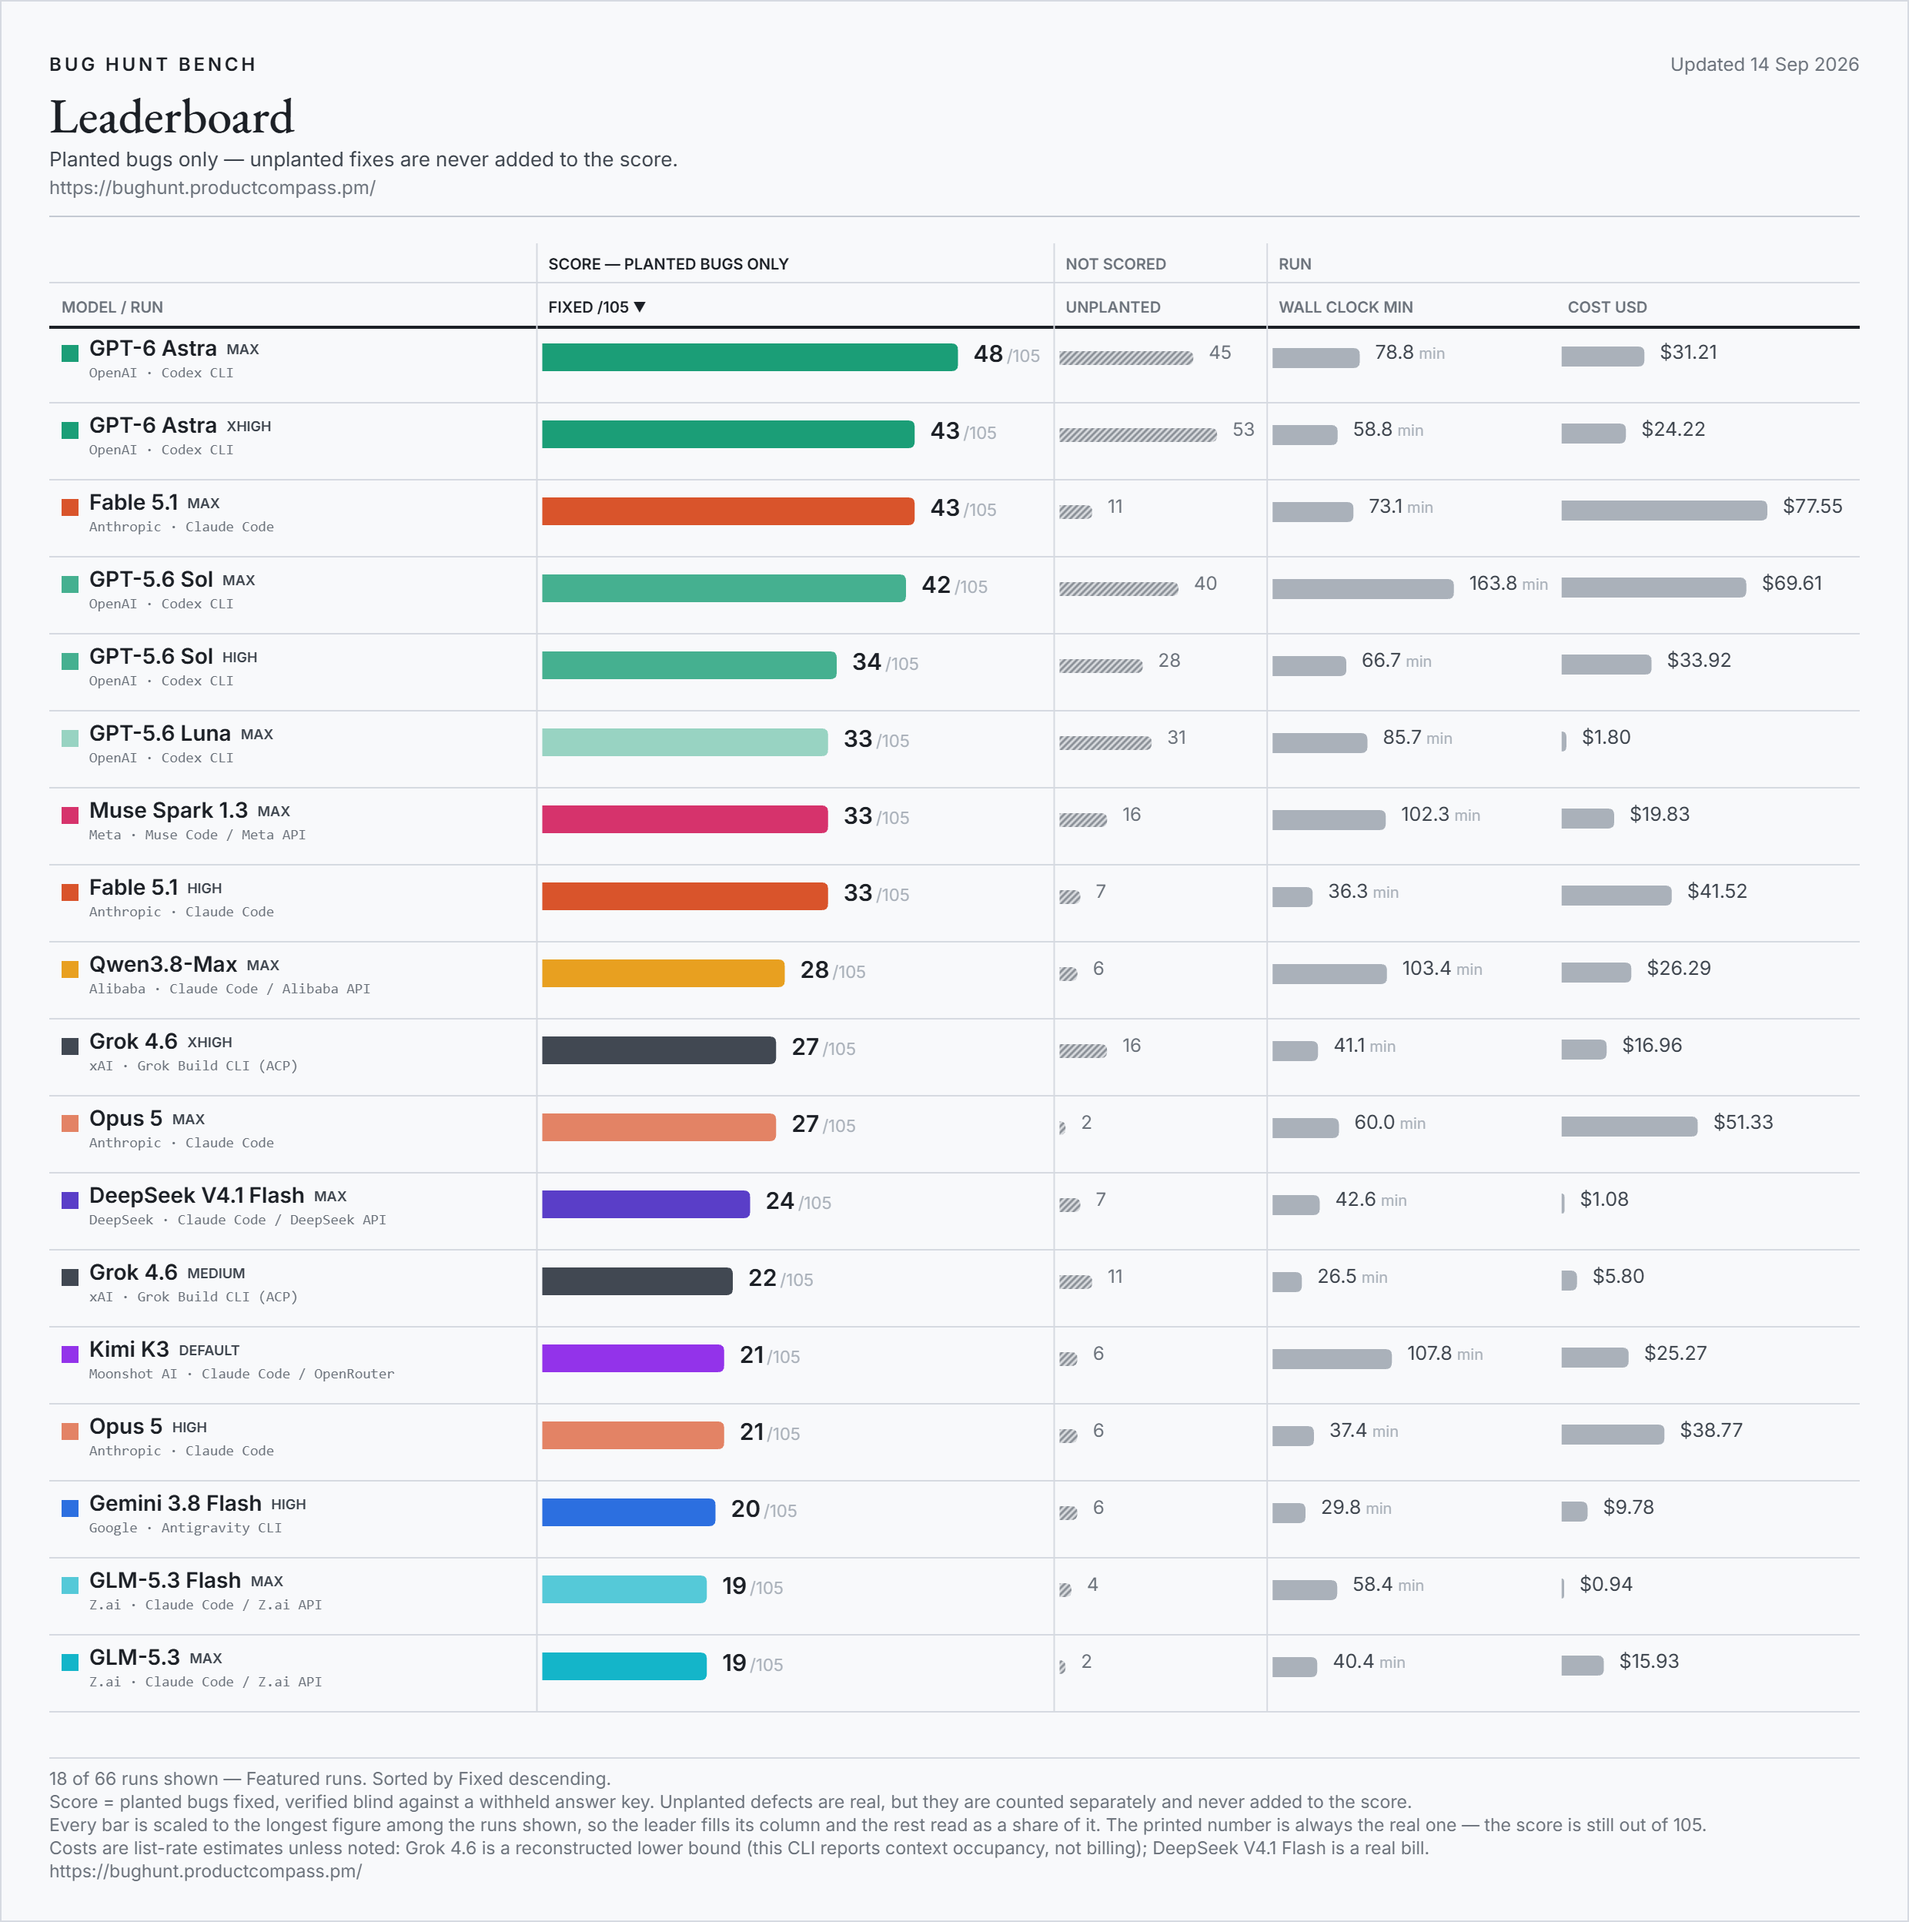
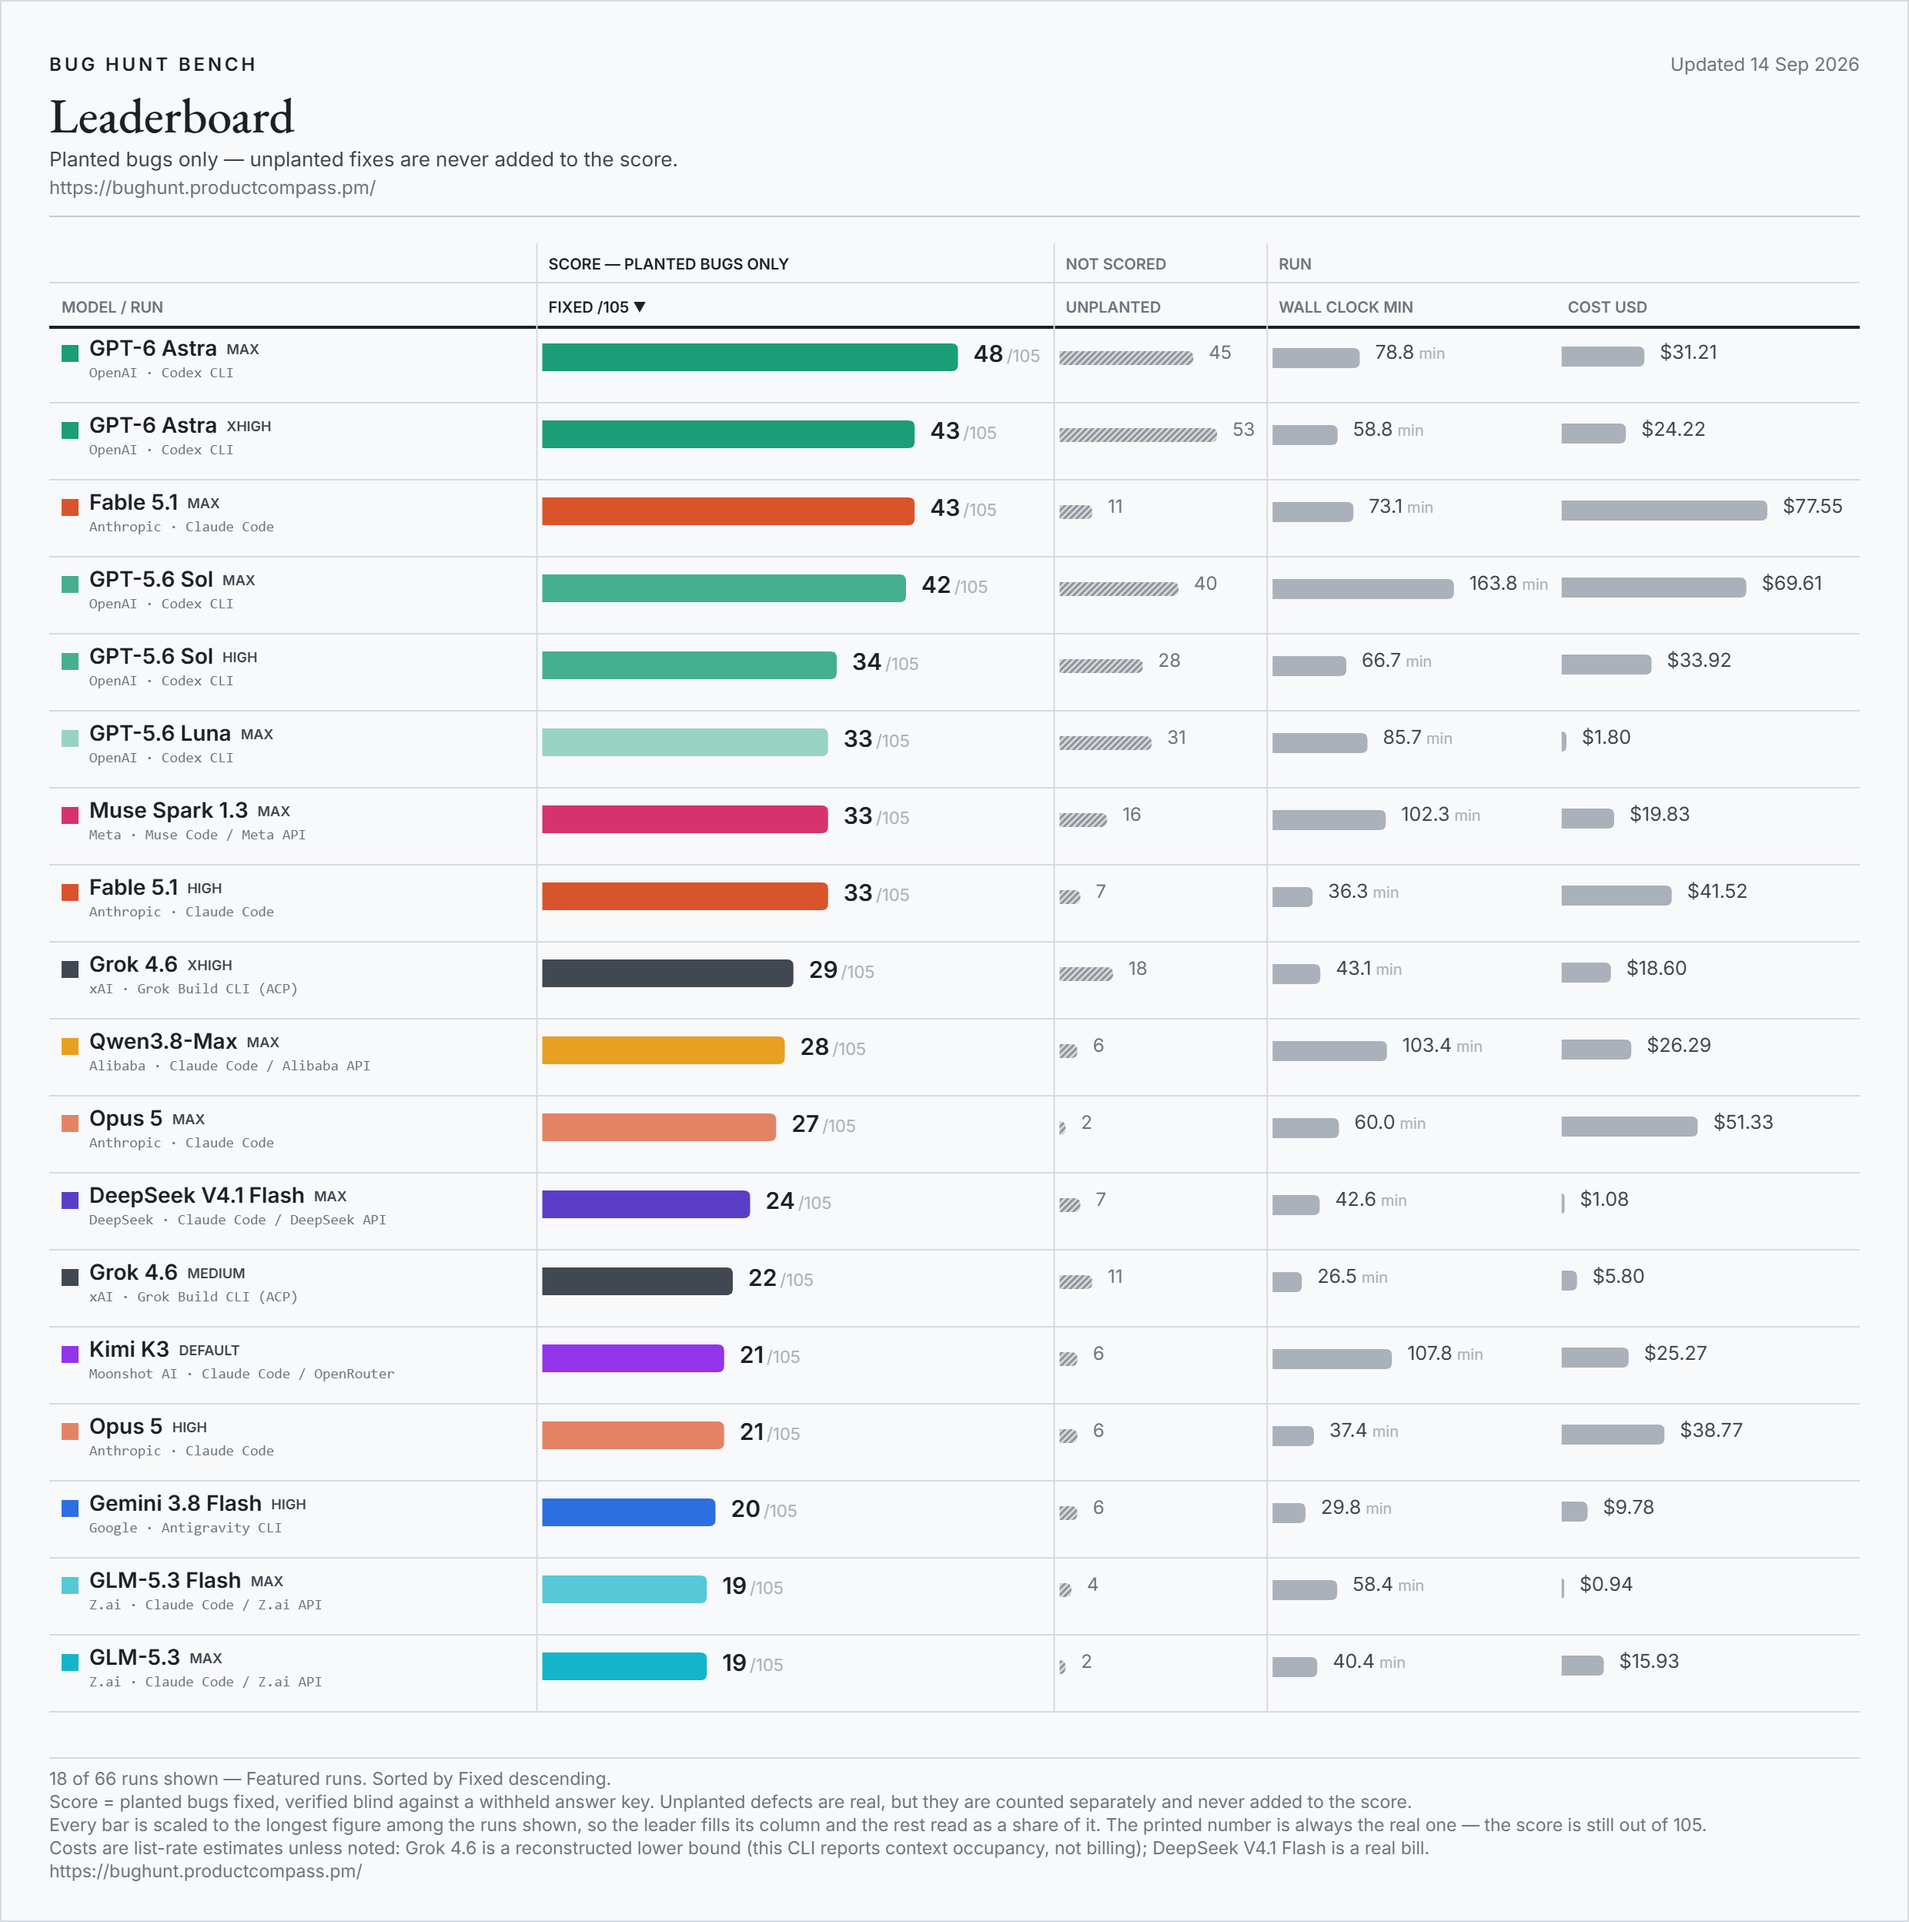
bug hunt bench: Grok 4.6 (xhigh) seq - mean of 3 (29/105)

diff --git a/index.html b/index.html
@@ -22,14 +22,14 @@
 <meta property="og:title" content="Bug Hunt Bench — frontier coding models against real planted bugs">
 <meta property="og:description" content="A blind-graded benchmark of frontier coding models on real bugs planted in two production codebases. The score counts planted bugs only; extra fixes are tracked separately and never added.">
 <meta property="og:url" content="https://bughunt.productcompass.pm/">
-<meta property="og:image" content="https://bughunt.productcompass.pm/og-image.png?v=2026-09-14-ef9ddc3e">
+<meta property="og:image" content="https://bughunt.productcompass.pm/og-image.png?v=2026-09-14-9b981cc8">
 <meta property="og:image:width" content="1200">
 <meta property="og:image:height" content="630">
 <meta property="og:image:alt" content="Bug Hunt Bench leaderboard">
 <meta name="twitter:card" content="summary_large_image">
 <meta name="twitter:title" content="Bug Hunt Bench — frontier coding models against real planted bugs">
 <meta name="twitter:description" content="A blind-graded benchmark of frontier coding models on real bugs planted in two production codebases. The score counts planted bugs only.">
-<meta name="twitter:image" content="https://bughunt.productcompass.pm/og-image.png?v=2026-09-14-ef9ddc3e">
+<meta name="twitter:image" content="https://bughunt.productcompass.pm/og-image.png?v=2026-09-14-9b981cc8">
 <meta name="twitter:creator" content="@PawelHuryn">
 
 <link rel="icon" href="/assets/favicon.svg" type="image/svg+xml">

diff --git a/method.html b/method.html
@@ -20,14 +20,14 @@
 <meta property="og:title" content="Method, caveats and definitions — Bug Hunt Bench">
 <meta property="og:description" content="How Bug Hunt Bench is run and graded, what the board cannot tell you, and what every column on it means.">
 <meta property="og:url" content="https://bughunt.productcompass.pm/method">
-<meta property="og:image" content="https://bughunt.productcompass.pm/og-image.png?v=2026-09-14-ef9ddc3e">
+<meta property="og:image" content="https://bughunt.productcompass.pm/og-image.png?v=2026-09-14-9b981cc8">
 <meta property="og:image:width" content="1200">
 <meta property="og:image:height" content="630">
 <meta property="og:image:alt" content="Bug Hunt Bench leaderboard">
 <meta name="twitter:card" content="summary_large_image">
 <meta name="twitter:title" content="Method, caveats and definitions — Bug Hunt Bench">
 <meta name="twitter:description" content="How Bug Hunt Bench is run and graded, what the board cannot tell you, and what every column on it means.">
-<meta name="twitter:image" content="https://bughunt.productcompass.pm/og-image.png?v=2026-09-14-ef9ddc3e">
+<meta name="twitter:image" content="https://bughunt.productcompass.pm/og-image.png?v=2026-09-14-9b981cc8">
 <meta name="twitter:creator" content="@PawelHuryn">
 
 <link rel="icon" href="/assets/favicon.svg" type="image/svg+xml">

diff --git a/README.md b/README.md
@@ -9,11 +9,11 @@ If the numbers save you a benchmark run of your own, **star this repo** — that
 <!-- leaderboard:start -->
 ![Bug Hunt Bench leaderboard, the featured runs, updated Sep 14, 2026](assets/leaderboard.png?v=2026-09-14)
 
-**Updated Sep 14, 2026 · 81 scored runs · 28 models · 37 of 105 bugs have never been fixed by any model.**
+**Updated Sep 14, 2026 · 82 scored runs · 28 models · 37 of 105 bugs have never been fixed by any model.**
 
 **Current leader:** GPT-6 Astra at `max` effort — **48 / 105** (24/45 on repo 1, 24/60 on repo 2).
 
-**Best run per lab:** OpenAI: GPT-6 Astra (`max`) 48 · Anthropic: Fable 5.1 (`max`) 43 · Meta: Muse Spark 1.3 (`max`) 33 · Alibaba: Qwen3.8-Max (`max`) 28 · xAI: Grok 4.6 (`xhigh`) 27 · DeepSeek: DeepSeek V4.1 Flash (`max`) 24 · Google: Gemini 3.7 Flash (`high`) 22 · Moonshot AI: Kimi K3 (`default`) 21 · Z.ai: GLM-5.3 Flash (`max`) 19 · Tencent: Hy4 Preview (`default`) 18 · OpenAI (open weights): gpt-oss-20b (`default`) 0
+**Best run per lab:** OpenAI: GPT-6 Astra (`max`) 48 · Anthropic: Fable 5.1 (`max`) 43 · Meta: Muse Spark 1.3 (`max`) 33 · xAI: Grok 4.6 (`xhigh`) 29 · Alibaba: Qwen3.8-Max (`max`) 28 · DeepSeek: DeepSeek V4.1 Flash (`max`) 24 · Google: Gemini 3.7 Flash (`high`) 22 · Moonshot AI: Kimi K3 (`default`) 21 · Z.ai: GLM-5.3 Flash (`max`) 19 · Tencent: Hy4 Preview (`default`) 18 · OpenAI (open weights): gpt-oss-20b (`default`) 0
 
 | # | Model | Harness | Effort | Fixed /105 | Repo 1 /45 | Repo 2 /60 | Extras | Wall | Cost | Date |
 |--:|---|---|---|--:|--:|--:|--:|--:|--:|---|
@@ -30,12 +30,12 @@ If the numbers save you a benchmark run of your own, **star this repo** — that
 | 11 | Fable 5.1 | Claude Code | high | **33** | 15 | 18 | 7 | 36 min | $41.52 | 2026-09-01 |
 | 12 | GPT-5.6 Terra | Codex CLI | max | **32** | 16 | 16 | 45 | 160 min | $27.98 | 2026-08-27 |
 | 13 | GPT-5.6 Sol | Codex CLI | medium | **29** | 13 | 16 | 24 | 48 min | $15.77 | 2026-09-06 |
-| 14 | Fable 5.1 | Claude Code | low | **29** | 13 | 16 | 6 | 33 min | $27.27 | 2026-09-02 |
-| 15 | Fable 5.1 | Claude Code | xhigh | **29** | 13 | 16 | 4 | 60 min | $40.42 | 2026-09-10 |
-| 16 | Fable 5 | Claude Code | max | **29** | 12 | 17 | 5 | 57 min | $104.49 | 2026-08-01 |
-| 17 | Qwen3.8-Max | Claude Code / Alibaba API | max | **28** | 13 | 15 | 6 | 103 min | $26.29 | 2026-09-11 |
-| 18 | GPT-6 Astra | Codex CLI | low | **27** | 18 | 9 | 25 | 32 min | $11.69 | 2026-09-05 |
-| 19 | Grok 4.6 | Grok Build CLI (ACP) | xhigh | **27** | 8 | 19 | 16 | 41 min | $16.96 floor | 2026-08-28 |
+| 14 | Grok 4.6 | Grok Build CLI (ACP) | xhigh | **29** | 12 | 17 | 18 | 43 min | $18.60 floor | 2026-09-14 |
+| 15 | Fable 5.1 | Claude Code | low | **29** | 13 | 16 | 6 | 33 min | $27.27 | 2026-09-02 |
+| 16 | Fable 5.1 | Claude Code | xhigh | **29** | 13 | 16 | 4 | 60 min | $40.42 | 2026-09-10 |
+| 17 | Fable 5 | Claude Code | max | **29** | 12 | 17 | 5 | 57 min | $104.49 | 2026-08-01 |
+| 18 | Qwen3.8-Max | Claude Code / Alibaba API | max | **28** | 13 | 15 | 6 | 103 min | $26.29 | 2026-09-11 |
+| 19 | GPT-6 Astra | Codex CLI | low | **27** | 18 | 9 | 25 | 32 min | $11.69 | 2026-09-05 |
 | 20 | Opus 5 | Claude Code | max | **27** | 13 | 14 | 2 | 60 min | $51.33 | 2026-08-01 |
 | 21 | Qwen3.8-Flash | Claude Code / Alibaba API | max | **26** | 13 | 13 | 7 | 97 min | $1.81 | 2026-09-11 |
 | 22 | Opus 5 | Claude Code | xhigh | **26** | 14 | 12 | 3 | 50 min | $59.59 | 2026-08-28 |
@@ -85,7 +85,7 @@ If the numbers save you a benchmark run of your own, **star this repo** — that
 | 66 | gpt-oss-120b | Claude Code / OpenRouter | default | **0** | 0 | 0 | 1 | 4 min | $0.13 bill | 2026-09-12 |
 
 Extras are real, unplanted defects a model fixed on the way; they are counted and never added to the score. Costs are token estimates at published list rates unless tagged **bill** (an actual invoice or credits delta) or **floor** (a reconstructed lower bound). `default` effort means the serving path had no working effort dial; *ran lower* marks a run whose CLI quietly replaced the requested tier. Wall clock is repo 1 plus repo 2 agent time, dependency install excluded.
-15 superseded re-runs stay in the CSVs and on the [live board](https://bughunt.productcompass.pm/?preset=all) but are left off this table.
+16 superseded re-runs stay in the CSVs and on the [live board](https://bughunt.productcompass.pm/?preset=all) but are left off this table.
 <!-- leaderboard:end -->
 
 ## What Bug Hunt Bench is

diff --git a/results/waves.md b/results/waves.md
@@ -2383,3 +2383,60 @@ anything measurable here.** Their means are 18.7 and 20.3 — 1.7 points apart, 
 All six `xhigh` legs clean: exit 0, zero shim errors, installs green, no handicap notes. **Zero
 claimed-only across all six.** Genuine extras 7, 24 and 9. Per-leg wall 73.0, 61.7 and 56.5 minutes
 at $15.58, $13.17 and $12.38 — a 26% cost spread on one flag value. Survivor count unchanged at 37.
+
+## Sep 14 — the replication program leaves Meta's dial, and a "confirmed" number turns out to be the floor of its own range
+
+Every n=3 run so far has been one rung of one vendor's effort dial. **Grok 4.6 at `xhigh`,
+sequential legs, is the first replicated configuration outside it** — and it lands on the one kind of
+row this board has the most of: a number that looked settled.
+
+| | run 1 (Aug 28) | run 2 | run 3 | **mean** | range |
+|---|---:|---:|---:|---:|---:|
+| repo 1 | 8/45 | 14/45 | 13/45 | 12/45 | 6 |
+| repo 2 | 19/60 | 16/60 | 16/60 | 17/60 | 3 |
+| **total** | **27/105** | **30/105** | **29/105** | **29/105** | **3** |
+
+Published as **Grok 4.6 (xhigh) seq — mean of 3**, at a mean floor of **$18.60** and **43.1 min**.
+It supersedes the single run of 27.
+
+### What gets retracted is an inference, not a number
+
+The Aug 28 row's note said its 27 was solid because the Aug 12 concurrent-legs run had *also* scored
+27 — "n=2 agreement". Two more sequential runs came back **30** and **29**.
+
+The 27 was correct for the run that produced it. What does not survive is reading a pair of agreeing
+draws as a measurement of the configuration: **both 27s sit at the bottom of the range this setup
+actually spans.** Two runs landing on the same number is roughly what you would expect from a spread
+of a few points — it is not corroboration, and this board treated it as corroboration in print.
+
+This is the same correction as the one two sections up, arriving from the other direction. There, a
+shape across four summary statistics was mistaken for a trend. Here, two equal numbers were mistaken
+for a confirmation. **Small n does not become evidence by agreeing with itself.**
+
+### The legs move more than the total does
+
+The three totals span 3 points. The repo-1 legs span **6** — on a repo less than half the size — while
+repo 2 spans 3, and the two moved in opposite directions on every pairing.
+
+That is worth writing down and worth nothing more than that. It is three runs. It is **not** evidence
+that totals are steadier than legs, and a 105-bug total built from two legs that partly cancel is
+exactly the kind of pattern chance produces often. Recorded as an observation to watch, in the same
+register as the range sequence that was withdrawn earlier today.
+
+### Cost moved more than score did
+
+The reconstructed floors were **$16.96, $17.96 and $20.88** — a 23% spread against a 3-point score
+spread. That is not pricing noise: the reconstruction scales with how many inference requests a run
+makes, and the three made 106, 118 and 128. The agent did measurably different amounts of work for
+nearly the same result. Grok costs on this board remain a **floor, not a bill** — the CLI reports
+context occupancy rather than cumulative usage, so every grok row is rebuilt from its own session
+logs at list rates.
+
+### Housekeeping
+
+All six legs exited 0, sequential throughout, effort verified by a zero-token readback before each
+launch, judged by the same model on all six. Genuine extras 16, 16 and 22; claimed-only 1, 0 and 1,
+all on repo 1. Across the three runs this configuration fixed **40 distinct bugs** at least once.
+The `high` row's note has been corrected where it placed itself "between medium 23 and xhigh 27" —
+the upper endpoint is now a three-run mean of 29, and that row is still a single run. Board now 82
+runs, 28 models; survivor count unchanged at 37.
